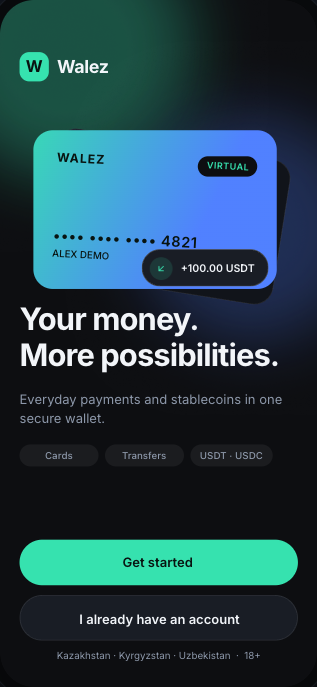
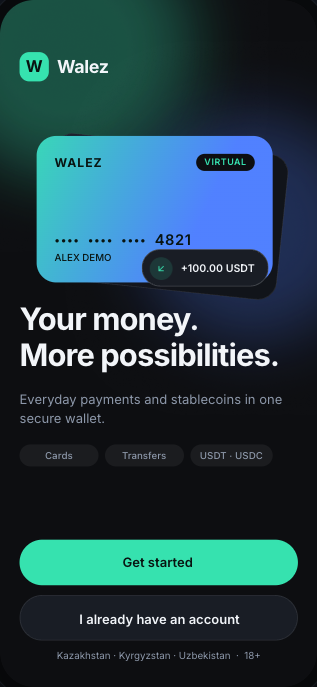
The Welcome card sits straight, its number on one line

Changed region(s): [[0.0852, 0.1834, 0.9085, 0.4585], [0.9085, 0.2445, 0.9369, 0.2751]]

diff --git a/apps/walez/src/gen/screens/Screen01WelcomeScreen.tsx b/apps/walez/src/gen/screens/Screen01WelcomeScreen.tsx
@@ -109,24 +109,24 @@ export function Screen01WelcomeScreen() {
               testID="w:1:179"
               className="absolute start-[8.7538vw] top-[14.2487vw] w-[74.359vw] h-[46.1538vw] border-[rgba(255,255,255,0.08)] border border-solid rounded-[6.1538vw]"
               colors={['rgba(26,33,49,1)', 'rgba(16,19,28,1)', 'rgba(16,19,28,1)']}
-              locations={[0, 0.6803, 1]}
-              start={{ x: -0.0368, y: 0.0976 }}
-              end={{ x: 1.0368, y: 0.9024 }}
-              angle={118}
-              style={{ transform: [{ rotate: '9deg' }] }}
+              locations={[0, 0.6768, 1]}
+              start={{ x: -0.0348, y: 0.1001 }}
+              end={{ x: 1.0348, y: 0.8999 }}
+              angle={117}
+              style={{ transform: [{ rotate: '6deg' }] }}
             ></LinearGradient>
             <LinearGradient
               testID="w:1:180"
-              className="absolute start-[4.2513vw] top-[10.2564vw] w-[76.6718vw] h-[49.9821vw] rounded-[6.1538vw]"
-              colors={['rgba(65,221,191,1)', 'rgba(91,140,255,1)', 'rgba(91,140,255,1)']}
-              locations={[0, 0.6732, 1]}
-              start={{ x: -0.0323, y: 0.1017 }}
-              end={{ x: 1.0323, y: 0.8983 }}
-              angle={116}
+              className="absolute start-[5.4077vw] top-[12.1718vw] w-[74.359vw] h-[46.1538vw] rounded-[6.1538vw]"
+              colors={['rgba(65,220,192,1)', 'rgba(91,140,255,1)', 'rgba(91,140,255,1)']}
+              locations={[0, 0.6693, 1]}
+              start={{ x: -0.0296, y: 0.1022 }}
+              end={{ x: 1.0296, y: 0.8978 }}
+              angle={115}
             >
               <Box
                 testID="w:1:181"
-                className="absolute start-[7.4718vw] top-[5.9282vw] w-[63.2718vw] h-[8.6795vw]"
+                className="absolute start-[5.641vw] top-[5.641vw] w-[63.0769vw] h-[5.3846vw]"
                 pointerEvents="box-none"
               >
                 <Box
@@ -136,18 +136,17 @@ export function Screen01WelcomeScreen() {
                   <Txt
                     testID="w:1:182"
                     accessibilityLabel={t('walez')}
-                    className="absolute start-[0.1308vw] top-[0.7769vw] text-black font-inter-700 text-[length:3.8462vw] leading-[4.6538vw] tracking-[1.2px] text-left"
+                    className="absolute start-[0vw] top-[0.3846vw] text-black font-inter-700 text-[length:3.8462vw] leading-[4.6538vw] tracking-[1.2px] text-left"
                     numberOfLines={1}
                     adjustsFontSizeToFit
                     minimumFontScale={0.65}
-                    style={{ transform: [{ rotate: '3deg' }] }}
                   >
                     {t('walez')}
                   </Txt>
                 </Box>
                 <Box
                   testID="w:1:183"
-                  className="absolute start-[44.5538vw] top-[2.3359vw] w-[18.7179vw] h-[6.3436vw] bg-background rounded-[25.3846vw]"
+                  className="absolute start-[44.6154vw] top-[0vw] w-[18.4615vw] h-[5.3846vw] bg-background rounded-[25.3846vw]"
                 >
                   <Box
                     pointerEvents="none"
@@ -156,11 +155,10 @@ export function Screen01WelcomeScreen() {
                     <Txt
                       testID="w:1:184"
                       accessibilityLabel={t('virtual')}
-                      className="absolute start-[2.6923vw] top-[1.5051vw] text-primary font-inter-600 text-[length:2.8205vw] leading-[3.4128vw] tracking-[0.66px] text-left"
+                      className="absolute start-[2.5641vw] top-[1.0256vw] text-primary font-inter-600 text-[length:2.8205vw] leading-[3.4128vw] tracking-[0.66px] text-left"
                       numberOfLines={1}
                       adjustsFontSizeToFit
                       minimumFontScale={0.65}
-                      style={{ transform: [{ rotate: '3deg' }] }}
                     >
                       {t('virtual')}
                     </Txt>
@@ -169,24 +167,74 @@ export function Screen01WelcomeScreen() {
               </Box>
               <Box
                 testID="w:1:185"
-                className="absolute start-[5.9282vw] top-[30.2538vw] w-[50.7436vw] h-[12.8744vw]"
+                className="absolute start-[5.641vw] top-[30vw] w-[43.3333vw] h-[10.5128vw]"
                 pointerEvents="box-none"
               >
                 <Box
-                  pointerEvents="none"
-                  style={{ position: 'absolute', left: 0, top: 0, right: 0, bottom: 0 }}
+                  testID="w:46:253"
+                  className="absolute start-[0vw] top-[0vw] w-[47.9487vw] h-[5.641vw] overflow-hidden"
+                  pointerEvents="box-none"
                 >
-                  <Txt
-                    testID="w:1:186"
-                    accessibilityLabel={t('4821_2985d3c6')}
-                    className="absolute start-[0.3718vw] top-[1.1846vw] text-black font-inter-600 text-[length:4.6154vw] leading-[5.5846vw] tracking-[0.72px] text-left"
-                    numberOfLines={1}
-                    adjustsFontSizeToFit
-                    minimumFontScale={0.65}
-                    style={{ transform: [{ rotate: '3deg' }] }}
+                  <Box
+                    pointerEvents="none"
+                    style={{ position: 'absolute', left: 0, top: 0, right: 0, bottom: 0 }}
                   >
-                    {t('4821_2985d3c6')}
-                  </Txt>
+                    <Txt
+                      testID="w:46:254"
+                      accessibilityLabel={t('str_e31f6545')}
+                      className="absolute start-[0vw] top-[0.641vw] w-[7.9487vw] text-black font-inter-700 text-[length:3.5897vw] leading-[4.3436vw] tracking-[1.4px] text-left"
+                      numberOfLines={1}
+                      adjustsFontSizeToFit
+                      minimumFontScale={0.65}
+                    >
+                      {t('str_e31f6545')}
+                    </Txt>
+                  </Box>
+                  <Box
+                    pointerEvents="none"
+                    style={{ position: 'absolute', left: 0, top: 0, right: 0, bottom: 0 }}
+                  >
+                    <Txt
+                      testID="w:46:255"
+                      accessibilityLabel={t('str_e31f6545')}
+                      className="absolute start-[10.5128vw] top-[0.641vw] w-[7.9487vw] text-black font-inter-700 text-[length:3.5897vw] leading-[4.3436vw] tracking-[1.4px] text-left"
+                      numberOfLines={1}
+                      adjustsFontSizeToFit
+                      minimumFontScale={0.65}
+                    >
+                      {t('str_e31f6545')}
+                    </Txt>
+                  </Box>
+                  <Box
+                    pointerEvents="none"
+                    style={{ position: 'absolute', left: 0, top: 0, right: 0, bottom: 0 }}
+                  >
+                    <Txt
+                      testID="w:46:256"
+                      accessibilityLabel={t('str_e31f6545')}
+                      className="absolute start-[21.0256vw] top-[0.641vw] w-[7.9487vw] text-black font-inter-700 text-[length:3.5897vw] leading-[4.3436vw] tracking-[1.4px] text-left"
+                      numberOfLines={1}
+                      adjustsFontSizeToFit
+                      minimumFontScale={0.65}
+                    >
+                      {t('str_e31f6545')}
+                    </Txt>
+                  </Box>
+                  <Box
+                    pointerEvents="none"
+                    style={{ position: 'absolute', left: 0, top: 0, right: 0, bottom: 0 }}
+                  >
+                    <Txt
+                      testID="w:46:257"
+                      accessibilityLabel={t('4821')}
+                      className="absolute start-[31.5385vw] top-[0vw] w-[11.7949vw] text-black font-inter-600 text-[length:4.6154vw] leading-[5.5846vw] tracking-[0.72px] text-left"
+                      numberOfLines={1}
+                      adjustsFontSizeToFit
+                      minimumFontScale={0.65}
+                    >
+                      {t('4821')}
+                    </Txt>
+                  </Box>
                 </Box>
                 <Box
                   pointerEvents="none"
@@ -195,11 +243,10 @@ export function Screen01WelcomeScreen() {
                   <Txt
                     testID="w:1:187"
                     accessibilityLabel={t('alex_demo')}
-                    className="absolute start-[0.0872vw] top-[7.1256vw] text-black font-inter-500 text-[length:3.0769vw] leading-[3.7231vw] text-left"
+                    className="absolute start-[0vw] top-[6.6667vw] text-black font-inter-500 text-[length:3.0769vw] leading-[3.7231vw] text-left"
                     numberOfLines={1}
                     adjustsFontSizeToFit
                     minimumFontScale={0.65}
-                    style={{ transform: [{ rotate: '3deg' }] }}
                   >
                     {t('alex_demo')}
                   </Txt>

diff --git a/apps/walez/src/gen/i18n/strings.en.ts b/apps/walez/src/gen/i18n/strings.en.ts
@@ -4,7 +4,8 @@ export default {
   w: 'W',
   walez: 'WALEZ',
   virtual: 'VIRTUAL',
-  '4821_2985d3c6': '•••• •••• •••• 4821',
+  str_e31f6545: '••••',
+  '4821': '4821',
   alex_demo: 'ALEX DEMO',
   '100_00_usdt_c57e35ff': '+100.00 USDT',
   your_money_more_possibilities_caae2e32: 'Your money.\nMore possibilities.',
